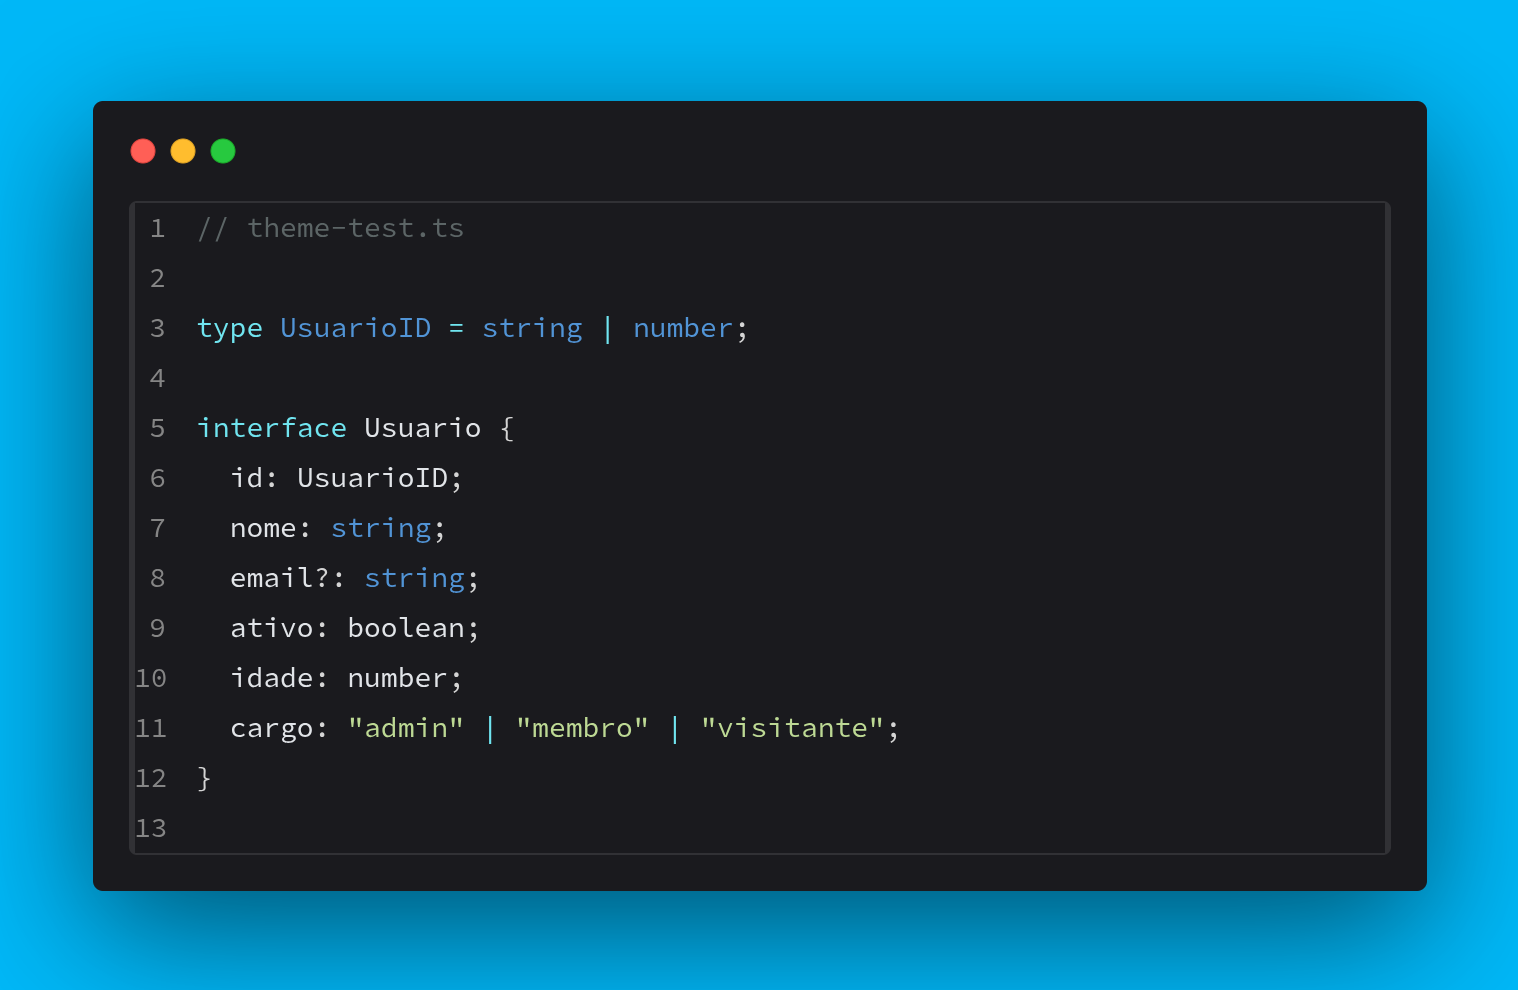
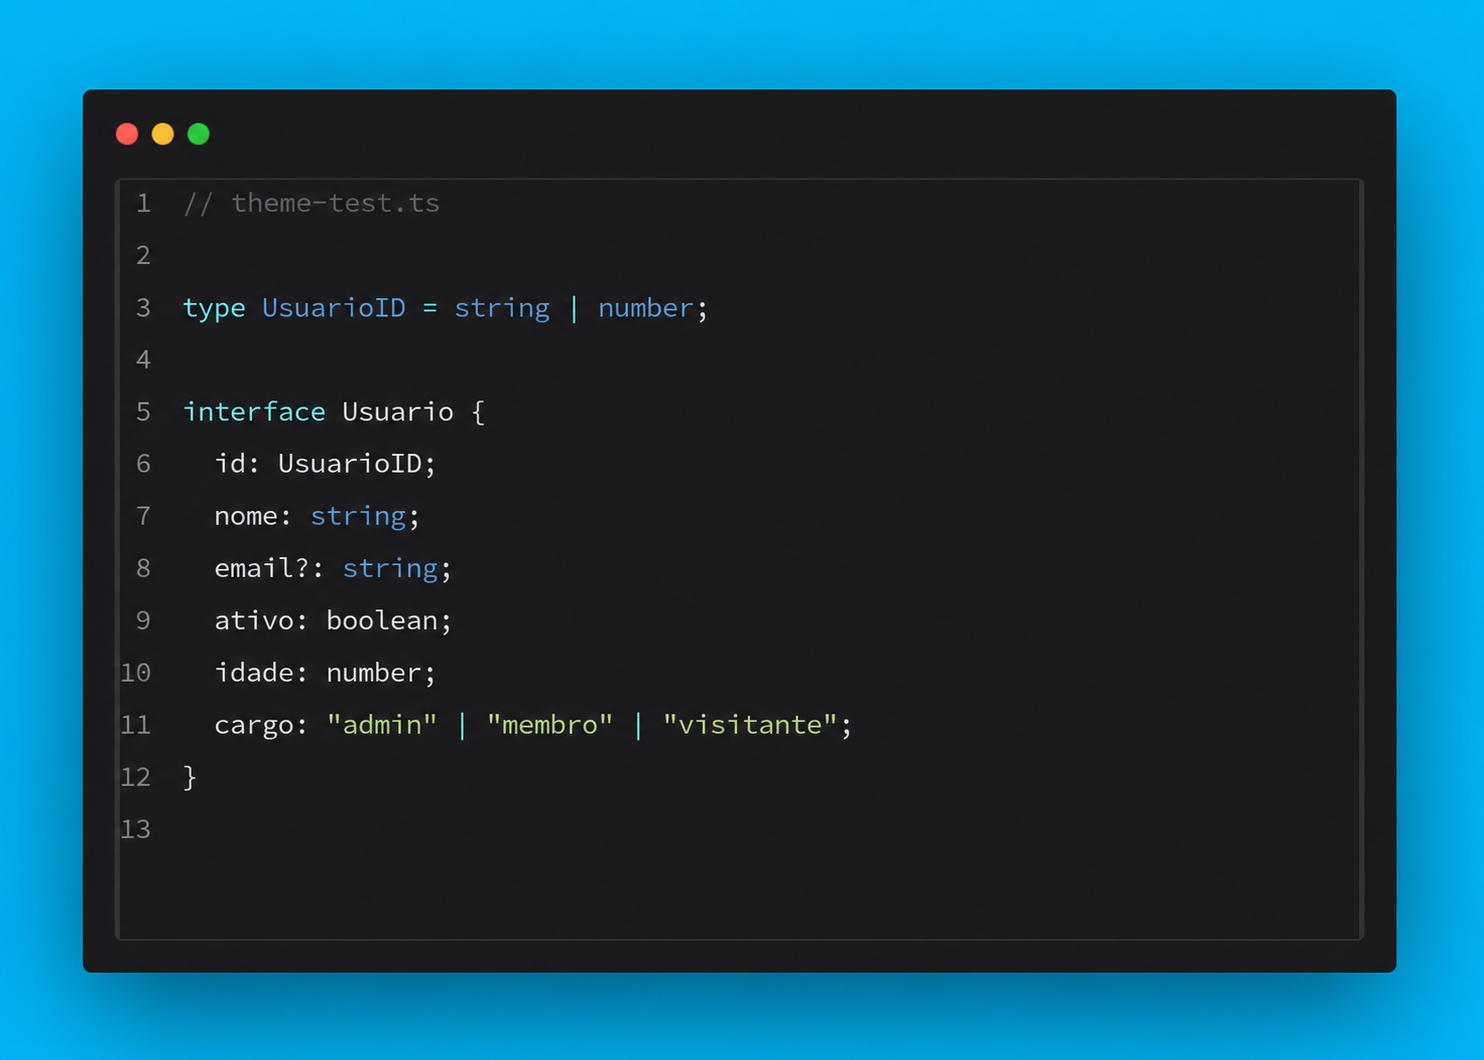
chore: update license year and modify screenshot dimensions

diff --git a/README.md b/README.md
@@ -25,11 +25,8 @@ Open `Extensions` in VS Code, search for `Lunaris`, and click `Install`.
 ## Screenshots
 
 <div align="center">
-  <img src="./screenshot-1.png" alt="Lunaris screenshot 1" width="49%" height="320" />
-  <img src="./screenshot-2.png" alt="Lunaris screenshot 2" width="49%" height="320" />
-  <br />
-  <br />
-  <img src="./screenshot-3.png" alt="Lunaris screenshot 3" width="900" />
+  <img src="./screenshot-1.png" alt="Lunaris screenshot 1" width="49%" height="400" />
+  <img src="./screenshot-2.png" alt="Lunaris screenshot 2" width="49%" height="400" />
 </div>
 
 ## License